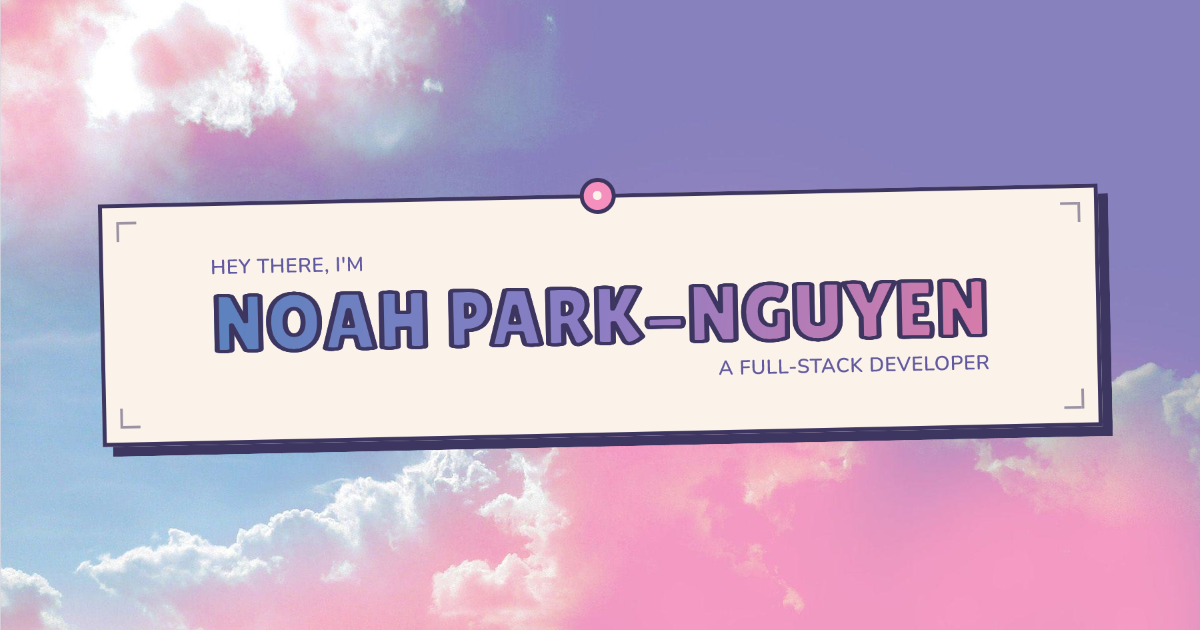
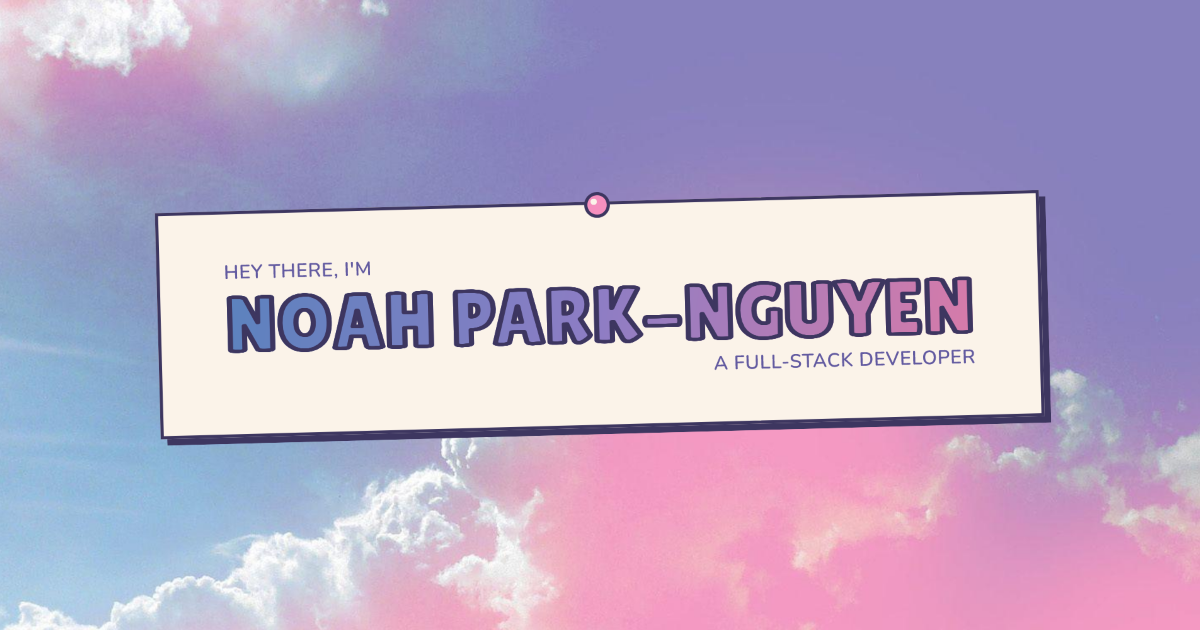
Refreshed the og-image and GitHub preview images, and added the HTML page I use to generate them

diff --git a/docs/index.html b/docs/index.html
@@ -1,0 +1,153 @@
+<!doctype html>
+<html lang="en">
+  <head>
+    <meta charset="UTF-8" />
+    <meta name="viewport" content="width=device-width, initial-scale=1.0" />
+    <title>OG image — Noah Park-Nguyen</title>
+
+    <!--
+      Standalone snapshot of the site banner, for generating the og-image and
+      GitHub preview image. Not part of the Vite app — open this file directly
+      in a browser, then screenshot and crop to whatever dimensions you need
+      (og-image 1200×630, GitHub preview 1280×640, etc.).
+
+      Every value here is copied 1:1 from the real source of truth so it matches
+      the site exactly — tokens from src/index.css (@theme) and markup/structure
+      from src/components/layout/Banner.jsx. It is scaled up uniformly (see
+      --scale) purely so screenshots have enough resolution; the proportions are
+      identical to the live banner.
+    -->
+
+    <!-- Same Google Fonts the site loads (only the two the banner uses). -->
+    <link rel="preconnect" href="https://fonts.googleapis.com" />
+    <link rel="preconnect" href="https://fonts.gstatic.com" crossorigin />
+    <link
+      href="https://fonts.googleapis.com/css2?family=Nunito:wght@400;600;700;800&family=Lilita+One&display=swap"
+      rel="stylesheet"
+    />
+
+    <style>
+      :root {
+        /* Tokens copied verbatim from src/index.css (@theme). */
+        --color-ink: #3d3660;
+        --color-paper: #fbf3e9;
+        --color-label: #625aa0;
+        --color-rose: #f58fbe;
+        --color-wordmark-from: #5b82be;
+        --color-wordmark-via: #8e7dc4;
+        --color-wordmark-to: #d77ba9;
+
+        /* Uniform upscale of the real banner (masthead wordmark is text-5xl =
+           48px; here 48 × 1.7 ≈ 82px). Change one number to resize the whole
+           card without altering any proportion. */
+        --scale: 1.7;
+      }
+
+      * {
+        margin: 0;
+        padding: 0;
+        box-sizing: border-box;
+      }
+
+      body {
+        min-height: 100vh;
+        display: grid;
+        place-items: center;
+        padding: calc(60px * var(--scale)) 40px;
+        font-family: "Nunito", ui-sans-serif, system-ui, sans-serif;
+        /* The real site backdrop. */
+        background: url("../src/assets/bg-pinksky.jpg") center / cover no-repeat
+          fixed;
+      }
+
+      /* PinnedCard grammar: opaque paper fill, 2px ink border, the hard
+         "shadow-sticker" 4px 4px 0 offset (no blur), a slight hand-placed
+         tilt. All border/shadow sizes scale with --scale. */
+      .card {
+        position: relative;
+        background: var(--color-paper);
+        border: calc(2px * var(--scale)) solid var(--color-ink);
+        box-shadow: calc(4px * var(--scale)) calc(4px * var(--scale)) 0 0
+          var(--color-ink);
+        padding: calc(28px * var(--scale)) calc(40px * var(--scale));
+        transform: rotate(-1.5deg);
+      }
+
+      /* <Pin>: rose disc, 2px ink ring, tiny paper highlight; pinned at the
+         top-center edge of the card (Banner/Welcome place it at -top-2). */
+      .pin {
+        position: absolute;
+        top: calc(-8px * var(--scale));
+        left: 50%;
+        transform: translateX(-50%);
+        display: block;
+        width: calc(16px * var(--scale));
+        height: calc(16px * var(--scale));
+        border-radius: 9999px;
+        border: calc(2px * var(--scale)) solid var(--color-ink);
+        background: var(--color-rose);
+      }
+      .pin-dot {
+        display: block;
+        width: calc(4px * var(--scale));
+        height: calc(4px * var(--scale));
+        margin: calc(2px * var(--scale)) 0 0 calc(2px * var(--scale));
+        border-radius: 9999px;
+        background: var(--color-paper);
+      }
+
+      /* Banner text block: inline, left-aligned, so the reverse eyebrows bracket
+         the wordmark on opposite corners (greeting top-left, tagline
+         bottom-right) — the deliberate diagonal from Banner.jsx. */
+      .text-block {
+        display: inline-block;
+        text-align: left;
+      }
+
+      /* Overline / kicker role (`eyebrow` utility): text-xs, semibold,
+         uppercase, tracking-wide, in the label color. text-xs = 12px → scaled. */
+      .eyebrow {
+        font-family: "Nunito", sans-serif;
+        font-size: calc(12px * var(--scale));
+        font-weight: 600;
+        text-transform: uppercase;
+        letter-spacing: 0.025em;
+        color: var(--color-label);
+      }
+      .eyebrow-right {
+        text-align: right;
+      }
+
+      /* Wordmark (the only <h1>): Lilita One, text-5xl uppercase, sky-gradient
+         fill with a 2px ink outline painted BEHIND it via text-stroke +
+         paint-order. All copied from Banner.jsx. */
+      .wordmark {
+        font-family: "Lilita One", "Fredoka", sans-serif;
+        font-size: calc(48px * var(--scale));
+        line-height: 1;
+        text-transform: uppercase;
+        color: transparent;
+        background-image: linear-gradient(
+          100deg,
+          var(--color-wordmark-from),
+          var(--color-wordmark-via),
+          var(--color-wordmark-to)
+        );
+        -webkit-background-clip: text;
+        background-clip: text;
+        -webkit-text-stroke: calc(2px * var(--scale)) var(--color-ink);
+        paint-order: stroke fill;
+      }
+    </style>
+  </head>
+  <body>
+    <div class="card">
+      <span class="pin" aria-hidden="true"><span class="pin-dot"></span></span>
+      <div class="text-block">
+        <p class="eyebrow">Hey there, I'm</p>
+        <h1 class="wordmark">Noah Park-Nguyen</h1>
+        <p class="eyebrow eyebrow-right">A Full-Stack Developer</p>
+      </div>
+    </div>
+  </body>
+</html>
